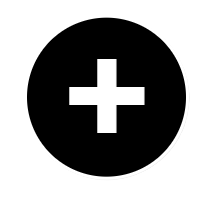
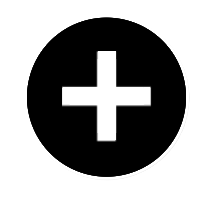
changed postion on checkbox-list-container and add-button

diff --git a/styles.css b/styles.css
@@ -145,13 +145,14 @@ header {
 
 #checkbox-list-container {
     position: fixed;
-    top: 42%; /* Vertically center the container */
+    top: 38%; /* Vertically center the container */
     left: 50%; /* Horizontally center the container */
     transform: translate(-50%, -50%); /* Offset by 50% of its own height and width */
     display: flex;
     flex-direction: column;
     align-items: center;
     z-index: 20; /* Ensure it appears above other elements */
+    max-height: calc(100vh - 200px);
 }
 
 #checkbox-list-container {
@@ -171,7 +172,7 @@ header {
     border: 1px solid #ccc;
     border-radius: 10px;
     min-width: 200px; /* Minimum width for the checklist */
-    max-height: calc(100vh - 400px); /* Prevent overlap with header and footer */
+   
     flex-direction: column; /* Stack the checkbox list and progress bar */
     justify-content: space-between; /* Ensure the progress bar aligns with the bottom */
     flex-grow: 1;
@@ -394,7 +395,7 @@ header {
     
 }
     #add-button {
-    
+        margin-top: 20px;
         border-radius: 50%;      
         font-weight: 600;
         cursor: pointer;
